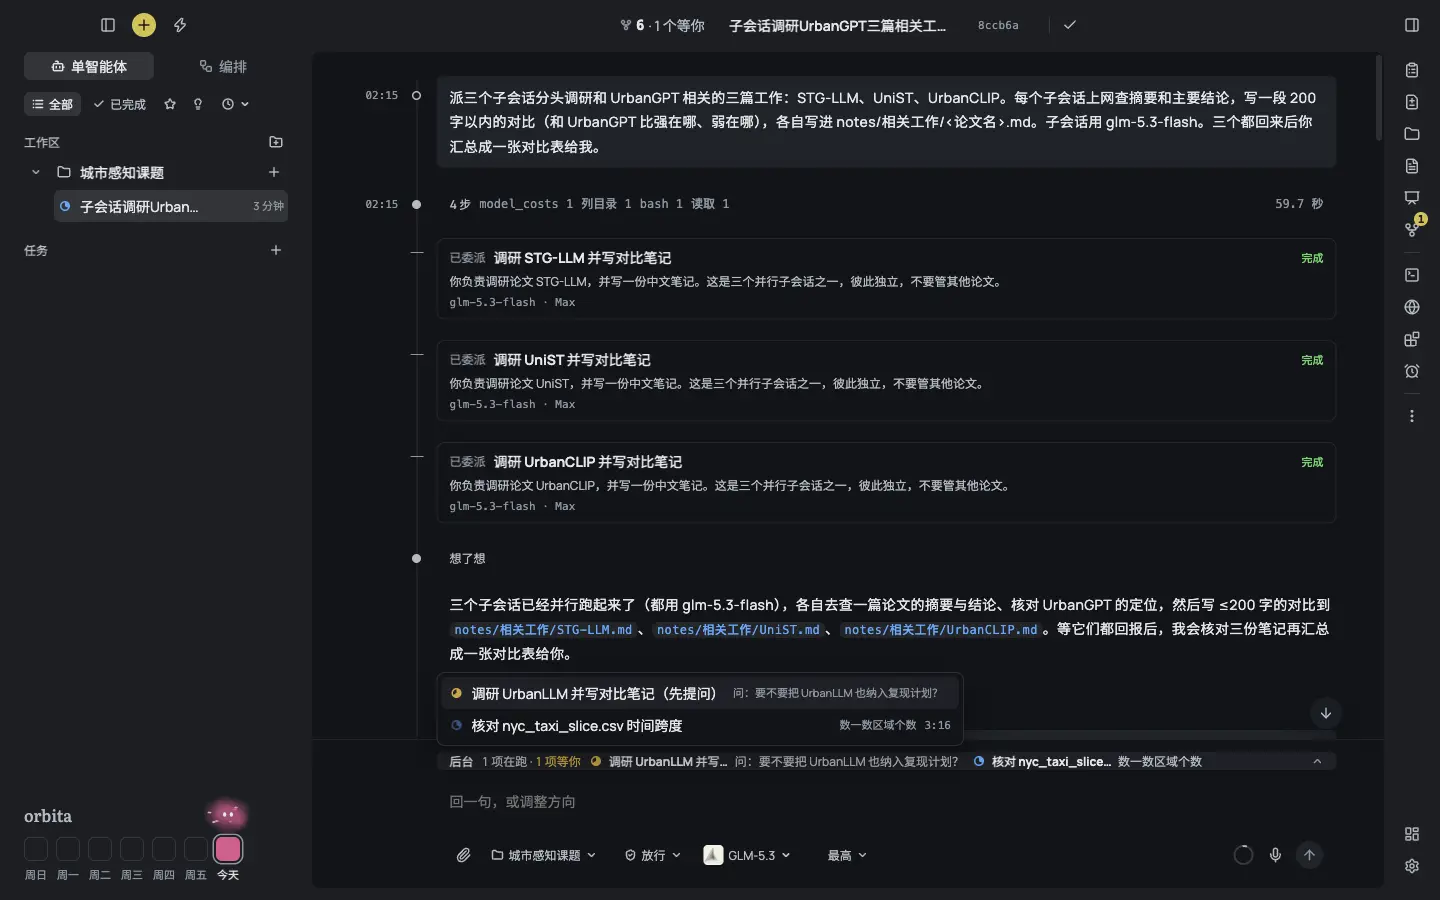
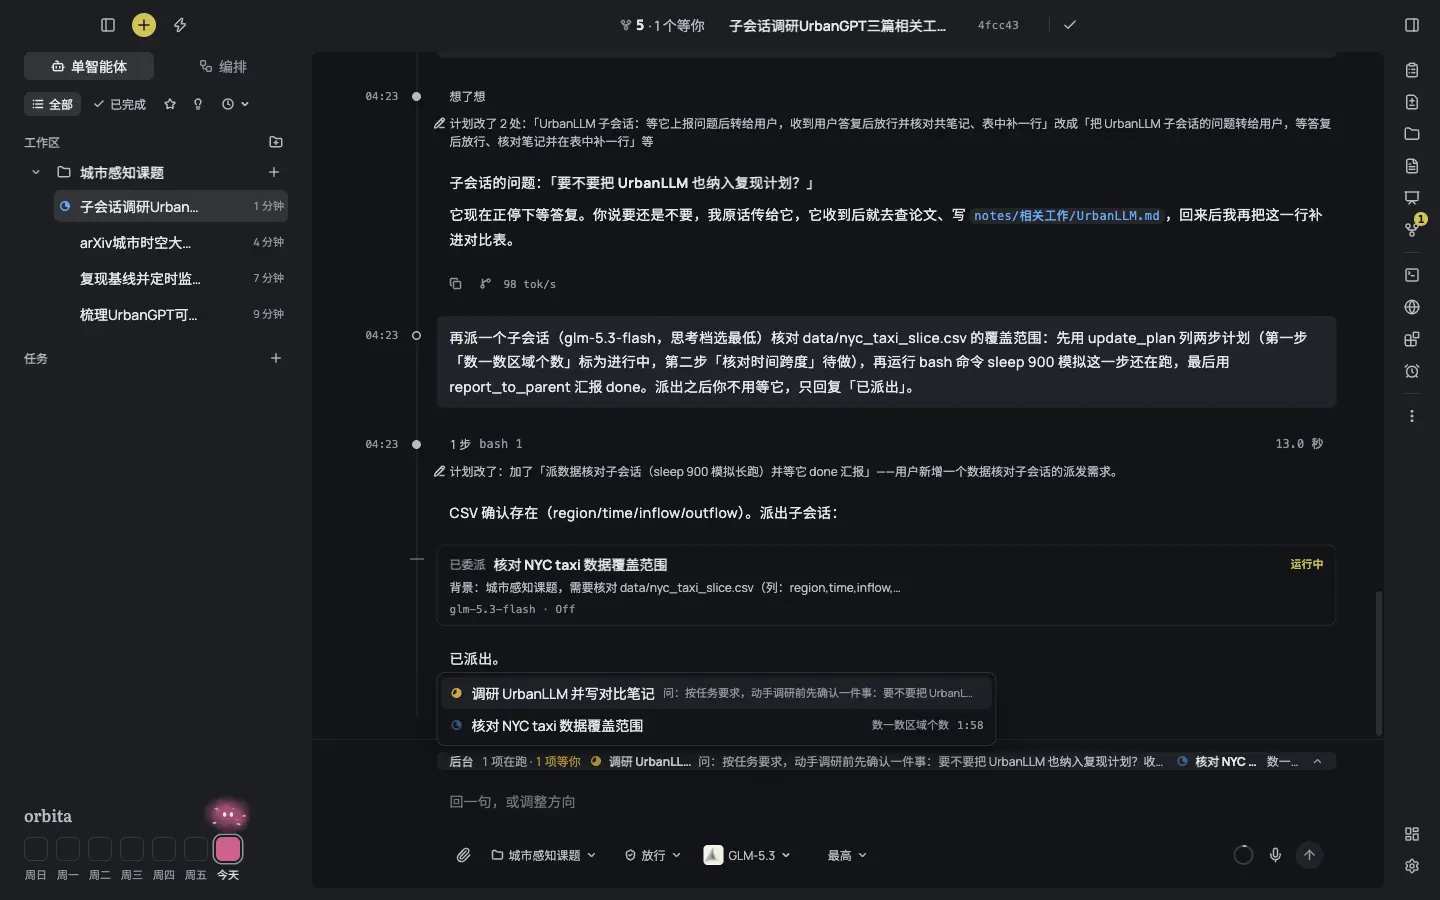
fix(onboarding): 第 7 章三张图同一时刻重拍，拍图脚本补稳
第 7 章「子会话」的图原先不是同一次灌的数据：「后台状态位」页侧栏只有 1 条任务、顶部写「6 · 1 个等你」，
「派出」「收件箱」页是 5 条任务、「4 · 1 个等你」，连翻几页数字忽多忽少。现在清掉演示实例、重灌演示课题
（read / delegate / terminal / browser + ask / bg-running），在**同一时刻**重拍这一章用到的三张图
（delegate、subsessions、bg-status；章开篇与「收件箱」「等你回话」两页共用 subsessions），浅色 / 玄各一套：
侧栏 4 条任务、顶部「5 · 1 个等你」、右栏「子会话（5）」、子会话名字（UrbanLLM / NYC taxi 核对 /
STG-LLM / UniST / UrbanCLIP）在各页之间一致；那一刻有一个在跑（还在数区域个数）、一个在等你、三个已完成，
「收件箱」页文字里的「在跑、跑完、等你」三种状态图里都有。标注框与编号点的位置由 shot-boxes.ts 重新量出，
数据表里取框的写法不变，没有手改坐标。别的章的图没动（「型号与花费」页用的是第 1 章共用的 general 图，设置页
里没有任务列表，不受影响）。

拍图脚本补了四处：
- scenes.mjs：delegate / subsessions / bg-status 都改 both（同一帧切 data-theme 拍玄；拍的时候加 --no-reload，
  因为重载会让渲染层丢掉「还在跑的子会话」）；delegate 的「滚到顶」要带 wheel 事件——对话区的「跟随最新」
  只认用户意图，光改 scrollTop 会被拉回底部（子会话在跑、转录长时实测，拍成了对话底部而不是三张派出卡）；
  bg-status 等到条上出现「数一数」（计划里那一步）再点开清单；
- seed.mjs：发话后校验输入框已清空，没清空就重发（最多 3 次）——Enter 偶发没发出去会让一幕白等；
  修了 papers/ 目录没建、curl 永远「下不下来」论文 PDF 的 bug；加 --skip（drive 时跳过某些幕，如与本章无关、
  要 25 分钟的 plugin）。

没验：没跑 plugin 幕与收尾的自动化真跑（与本章无关，别的章的图本次不重拍）；同一帧里浅 / 玄两张是先后拍的，
相差几秒（图里「N 分钟前」偶尔差 1）。

Made-with: Orbita

diff --git a/src/renderer/src/features/onboarding/shot-boxes.ts b/src/renderer/src/features/onboarding/shot-boxes.ts
@@ -63,13 +63,13 @@ export const SHOT_BOXES: Readonly<Record<string, Readonly<Record<string, Box>>>>
     "list": {
       "x": 0.3031,
       "y": 0.7467,
-      "w": 0.3663,
+      "w": 0.3889,
       "h": 0.0822
     },
     "row": {
       "x": 0.3066,
       "y": 0.7522,
-      "w": 0.3593,
+      "w": 0.3819,
       "h": 0.0356
     }
   },
@@ -325,16 +325,16 @@ export const SHOT_BOXES: Readonly<Record<string, Readonly<Record<string, Box>>>>
   },
   "delegate": {
     "bubble": {
-      "x": 0.3309,
-      "y": 0.0956,
-      "w": 0.5917,
+      "x": 0.3122,
+      "y": 0.0944,
+      "w": 0.6069,
       "h": 0.0817
     },
     "cards": {
-      "x": 0.2378,
-      "y": 0.3517,
-      "w": 0.6944,
-      "h": 0.3072
+      "x": 0.3031,
+      "y": 0.3144,
+      "w": 0.625,
+      "h": 0.3172
     }
   },
   "doc-note": {
@@ -728,7 +728,7 @@ export const SHOT_BOXES: Readonly<Record<string, Readonly<Record<string, Box>>>>
     },
     "rail": {
       "x": 0.9708,
-      "y": 0.1689,
+      "y": 0.24,
       "w": 0.0194,
       "h": 0.0311
     },
